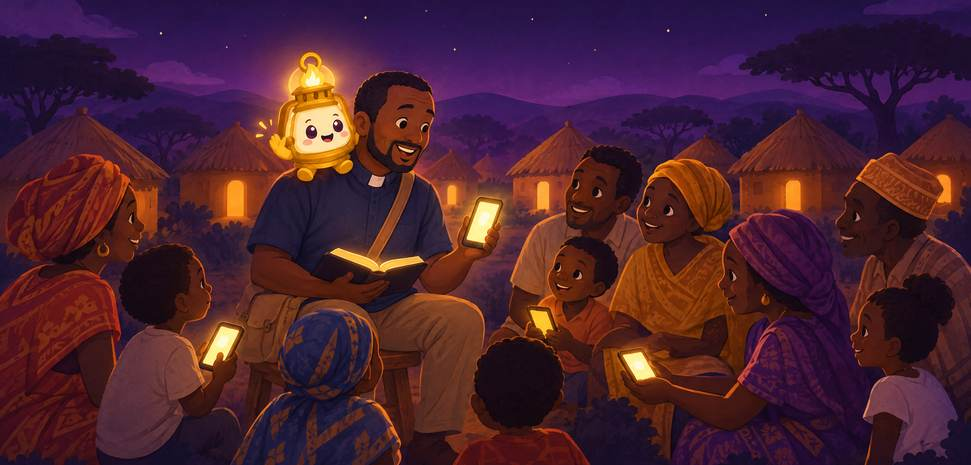
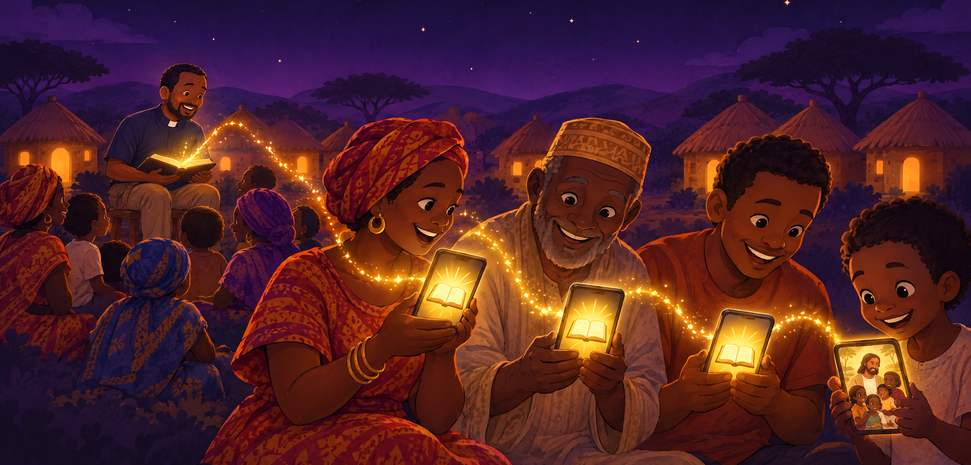
First-visit art: the Bible's light travels phone to phone (#73)
Following Eric's guidance, the picture shows what is shared rather than
a helper: a pastor reads from a glowing Bible and its light passes along
a chain of villagers' phones, ending on Jesus with children. Kandili
stays the in-app helper but is no longer in this picture.

Claude-Session: https://claude.ai/code/session_01ByMNqHn94ddH2C1cVDcUUY

diff --git a/app/assets/js/i18n.js b/app/assets/js/i18n.js
@@ -382,11 +382,11 @@ window.ET.module('i18n', ['core'], function (ET) {
     if (guess) hello.unshift(guess);
     return '' +
       '<section class="ob-screen tour-hello" data-step="hello" lang="en" dir="ltr" aria-labelledby="tour-h-hello">' +
-        // A visiting pastor in a village at dusk, Kandili on his shoulder as the
-        // helper, phones passed hand to hand. 31 KB, size held so nothing jumps.
+        // A pastor reads the Bible; its light travels phone to phone along a chain
+        // of villagers, ending on Jesus with children. Size held so nothing jumps.
         '<div class="tour-art"><picture><source srcset="assets/art/kandili-village.webp" type="image/webp">' +
           '<img src="assets/art/kandili-village.jpg" width="971" height="465" decoding="async" ' +
-          'alt="A pastor with a Bible sits with families in a village at night, Kandili the little lantern on his shoulder, while people share phones hand to hand."></picture></div>' +
+          'alt="In a village at night a pastor reads from a glowing Bible, and its light travels from phone to phone along a line of villagers, ending on a picture of Jesus with children."></picture></div>' +
         '<p class="tour-brand">BibleTransfer<span>123</span></p>' +
         '<h1 class="tour-h display" id="tour-h-hello" tabindex="-1">Light that travels <span>phone to phone.</span></h1>' +
         '<p class="tour-sub">Bible films, audio Bibles and Scripture in your own language. Save them once, then pass them on. No internet needed.</p>' +

diff --git a/app/sw.js b/app/sw.js
@@ -9,7 +9,7 @@
    VERSION must change whenever the shell changes, or an installed copy keeps
    serving the old one. packer/et/generate.py (`npm run generate`) sets it from a
    hash of every SHELL file, and `easytransfer build` stamps card copies. */
-var VERSION = 'shell-dc20544e63dd';
+var VERSION = 'shell-b4b38e27658a';
 
 var SHELL = [
   'index.html', 'library.html', 'item.html', 'share.html', 'help.html', 'nearby.html',
